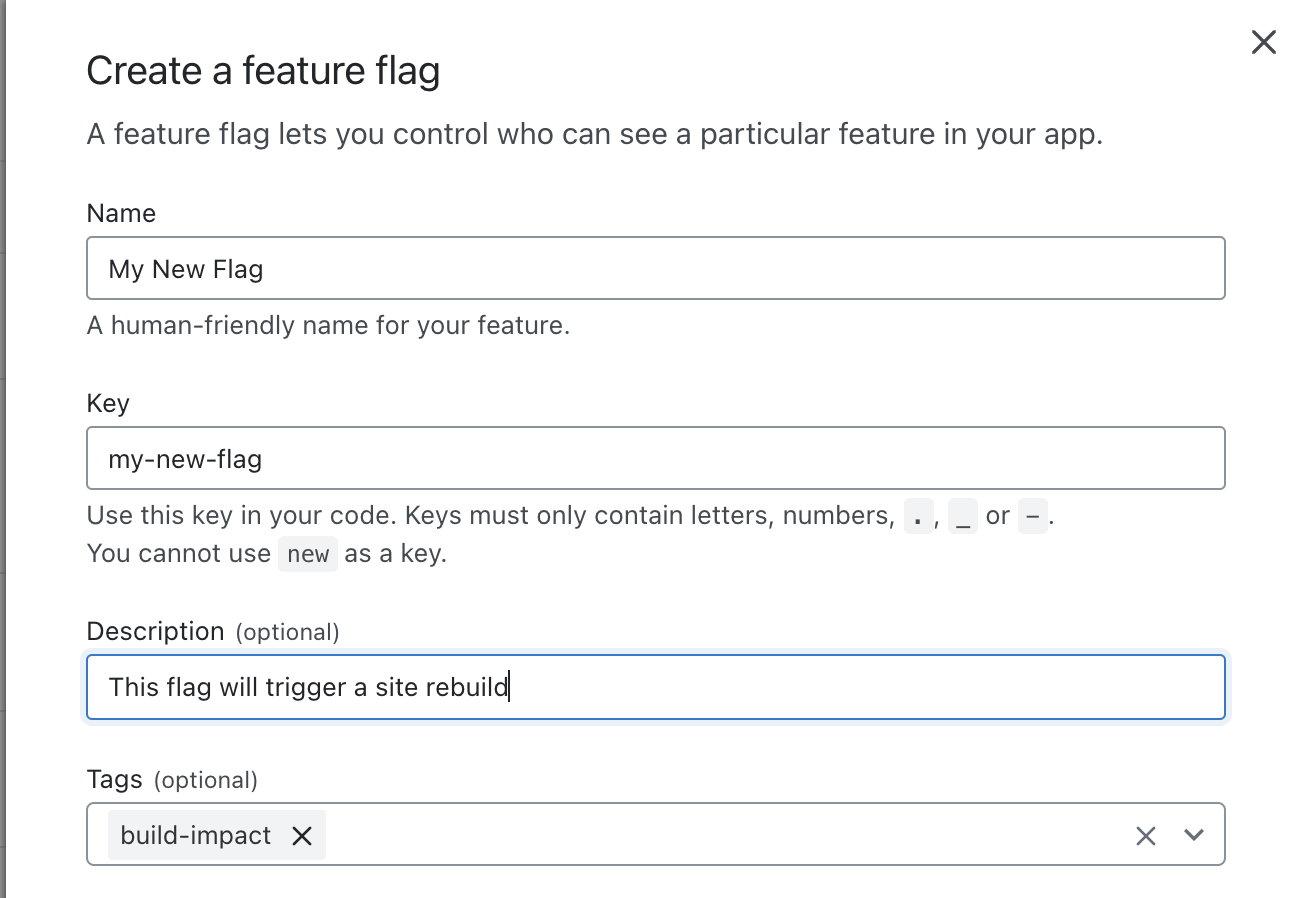
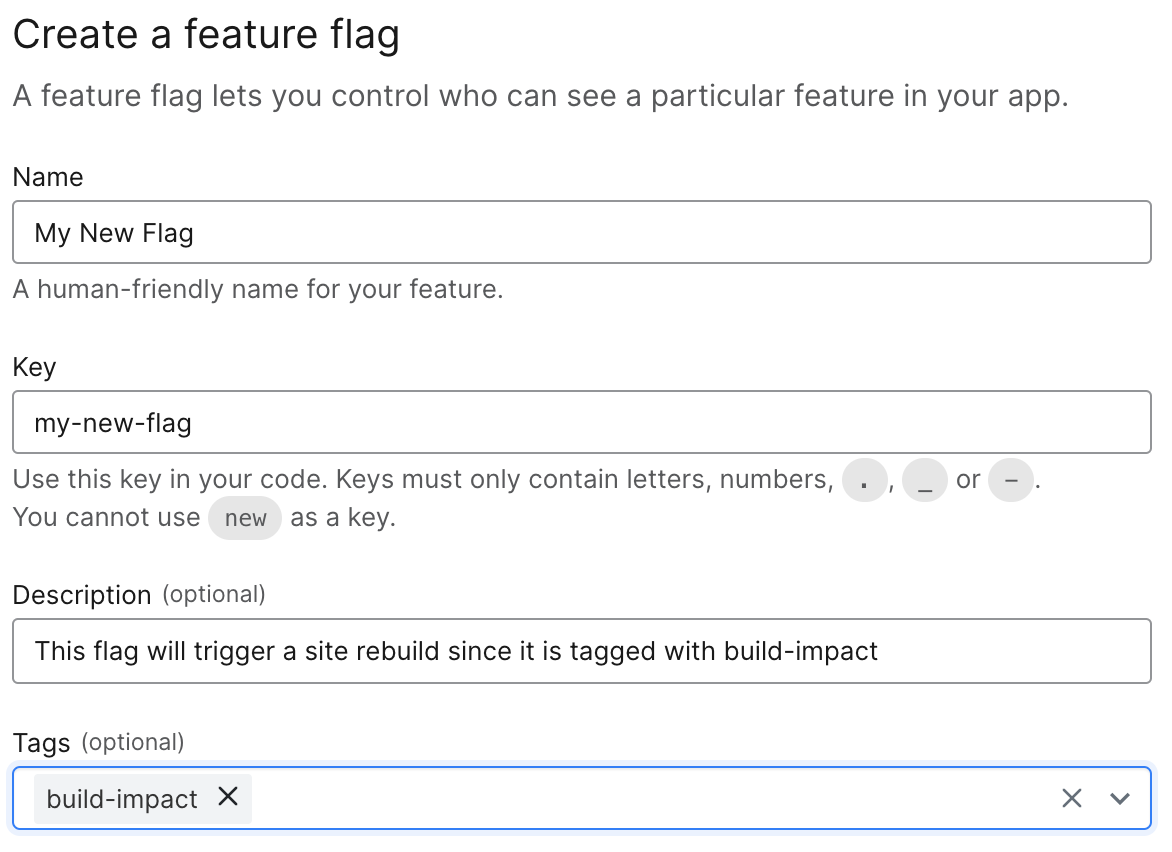
new article

Changed region(s): [[0.0, 0.0, 0.9829, 1.0], [0.9522, 0.0305, 0.9829, 0.061]]

diff --git a/LaunchDarkly Netlify/# Working with LaunchDarkly on Netlify.md b/LaunchDarkly Netlify/# Working with LaunchDarkly on Netlify.md
@@ -1,0 +1,126 @@
+# Working with LaunchDarkly on Netlify
+
+I have been a Netlify fan since the very beginning. I was developing Jekyll sites and struggling with deploying them via FTP. You remember FTP right? Anyway, it was so tedious, painful and error prone that folks developed command line tools to do it for you. Then Netlify came along and made the whole process easy and seamless...kind of like what LaunchDarkly did with feature flags!
+
+Speaking of feature flags, how does that work when the many of the assets that you are deploying are static? Do I need to flip a flag and then manually trigger a rebuild to have any changes reflect? The good news is, no, the whole process can be automated. In this post, we'll explore a solution that can enable you to directly connect any flags that impact the build with your build process in Netlify.
+
+## Why Use LaunchDarkly with Netlify?
+
+Feature management offers a ton of flexibility in terms of how you code, when and how you launch features or even how you empower your internal stakeholders. These capabilities are definitely useful in a Jamstack app as they are in any app, but, the key point for this post is, they are useful _even if the content is static_. Here's just a couple reasons you might want to use feature management within statically generated pages:
+
+* Enable/disable new functionality from the site, allowing you to launch features publicly only when they are fully ready and with the flip of a switch. You can even enable functionality in a branch deploy but disable it in the production deploy.
+* Give marketing the ability to launch new pages aligned with the timing of their campaigns without requiring developer intervention. For instance, they could flip all the content and assets related to a rebrand using a flag.
+
+Let's explore how to integrate Netlify's continuous deployment process with LaunchDarkly. There's a lot of material on integrating LaunchDarkly in client-side web applications, and nothing about deploying to Netlify needs to change for that. Rather, the question we'll answer is what to do when flag changes impact the static build and assets of a Jamstack site.
+
+## Connecting Flag Changes with Netlify Builds
+
+Let's lay out some requirements for connecting our LaunchDarkly flags with our Netlify builds:
+
+1. We want this to work automatically, without the need for developer intervention to deploy a change triggered by a flag.
+2. We want new builds to only be triggered by flags that have an actual impact on the build – we do not want to trigger a new build on every flag change for flags that don't require a rebuild (for example, a flag that impacts functionality on the frontend of the site) because build time is money.
+3. We want to be able to connect multiple environments in LaunchDarkly with multiple deploys on Netlify, this way a flag change in testing does not impact or trigger a build on the production deployment that runs the public facing web site.
+
+First, let's dig into how to set up LaunchDarkly to achieve this.
+
+### Setting Up LaunchDarkly
+
+LaunchDarkly provides projects and environments that allow you to organize and structure your flags to meet the needs of your development and production environments. For this example, we have a project that matches our production site being deployed to Netlify. Within that project we have two environments, Production and Testing, which are the defaults. These align with our deployment on Netlify, which has a staging deploy and a production deploy.
+
+LaunchDarkly also allows us to tag a flag when we create it. This can help you organize and find flags within large projects but we're going to leverage this feature to allow us to determine whether a flag should trigger a new build or not.
+
+When we create a flag, we can tag it with a tag that indicates that it should trigger a new build. We've chosen to name the tag `build-impact` but you can choose whatever name you prefer. It's best to choose a name that is easy to understand and consistent across the project.
+
+![Adding a tag to a flag on LaunchDarkly](netlify-adding-ld-flag.png)
+
+Ultimately, we will end up with a number of flags, some of which are tagged with `build-impact` and others that are not. The ones that are not may be used in Netlify functions, server-side rendering of specific pages or within client-side JavaScript. In each of these cases, a rebuild is not necessary, so no additional integration is required to utilize the flags.
+
+![Multiple flags in LaunchDarkly but only some have build impact](netlify-multiple-ld-flags.png)
+
+Before we can connect these to Netlify's build process, we'll need to do a little set up in Netlify first.
+
+### Setting Up Netlify
+
+Netlify offers the capability of automatically publishing not just our main branch but also any or all of our other branches to a "branch deploy". This deploy will not be accessible via our primary URL but instead has a special URL. This is extremely useful for deploying a staging/testing branch. (Note that this is different from Deploy Previews which publish a preview of pull requests.)
+
+To enable branch deploys, go to Site Settings > Build & Deploy > Branches within your Netlify dashboard. You can choose to publish only your production branch, all branches or only specific branches that you specify. In our example, we only have two branches, so we'll publish all of them.
+
+![Setting up branch deploys on Netlify](netlify-branch-deploys.png)
+
+#### Per Context Environment Variables in Netlify
+
+Next, we need to set up our two branches (i.e. production and staging) to use the appropriate SDK keys for the project. This enables the production deploy to use the Production environment flags in LaunchDarkly and the staging deploy to use Testing environment flags.
+
+Environment variables can be set in Netlify via the Netlify dashboard at Site Settings > Build & Deploy > Environment. However, this sets the variables on every branch whereas we want to use different variables per environment. To do that, we'll need to use a [build plugin](https://www.netlify.com/blog/2020/05/21/localize-your-environment-variables-by-context-with-build-plugins/) that will choose the appropriate variable for each environment (or "context" as Netlify refers to them).
+
+Within our Netlify site dashboard, go to Plugins and then click the button that reads "Go to plugins directory". In the search box, search for "Contextual Env". This is a build plugin created by Chris Ball that will replace the value of environment variables on a per context basis. Click the "Install" button and then choose the site to install it to.
+
+The way this plugin works is by replacing the value of an environment variable like `LAUNCHDARKLY_SDK_KEY`, which contains our Production environment SDK key, with the value of an environment variable prefixed with the name of the [deploy context](https://docs.netlify.com/site-deploys/overview/#deploy-contexts). In this case, our deploy context is `branch-deploy`, so the environment variable containing our Testing environment SDK key should be named `BRANCH_DEPLOY_LAUNCHDARKLY_SDK_KEY`.
+
+Now we can go to Environment variables via the Netlify dashboard at Site Settings > Build & Deploy > Environment and set 4 environment variables:
+
+1. `LAUNCHDARKLY_SDK_CLIENT` contains the client-side ID for our Production environment that will allow us to access LaunchDarkly via one of the [Client-side SDKs](https://docs.launchdarkly.com/sdk/client-side).
+2. `LAUNCHDARKLY_SDK_KEY` contains the server-side SDK key for our Production environment that will allow us to access LaunchDarkly via one of the [Server-side SDKs](https://docs.launchdarkly.com/sdk/server-side)
+3. `BRANCH_DEPLOY_LAUNCHDARKLY_SDK_CLIENT` contains the client-side ID for our Test environment. This will replace the value of `LAUNCHDARKLY_SDK_CLIENT` on any of our branch deploys, including our staging deploy.
+4. `BRANCH_DEPLOY_LAUNCHDARKLY_SDK_KEY` contains the server-side SDK key for our Test environment. This will replace the value of `LAUNCHDARKLY_SDK_KEY` on any of our branch deploys, including our staging deploy.
+
+![Netlify environment variables](netlify-environment-variables.png)
+
+Once these values are all in, click the "Save" button. When a branch is deployed, all references to either the `LAUNCHDARKLY_SDK_CLIENT` or `LAUNCHDARKLY_SDK_KEY` will use the appropriate Test environment variables.
+
+#### Deploy Hooks on Netlify
+
+Deploy hooks are HTTP endpoints that Netlify provides to allow us to programmatically trigger a build. This is extremely useful if you want to trigger a new build when content is published on a headless CMS, for example. For our example, we want to trigger a new build whenever a flag that we've determined impacts the build is changed.
+
+We need to set up two deploy hooks: one for our production deploy; and one for our staging deploy. Within your Netlify dashboard, go to Site Settings > Build & Deploy > Build Hooks and click the "Add build hook" button. Give the build hook a name (for example, "LaunchDarkly Production") and then choose the `main` branch for our production deploy. Repeat this process, choosing the `staging` branch.
+
+![Adding build hooks in Netlify](netlify-build-hooks.png)
+
+Once they are saved, Netlify will give us a build hook URL we can copy. We'll need those in a moment when we set up the web hooks in LaunchDarkly.
+
+## Using Webhooks on LaunchDarkly to Trigger a Build
+
+We're going to use LaunchDarkly's webhook integration to call the Netlify build hook and trigger a build. We'll connect one webhook from our Test environment to our staging deploy on Netlify and our Production environment to our production deploy. We'll also set up a security policy on the webhook to ensure that only those flags tagged with `build-impact` will trigger a rebuild on Netlify.
+
+Within your LaunchDarkly dashboard, go to Integrations, search for "webhooks" and then click the "+ Integration button". Name the webhook to make it easier to identify (for example, "Netlify Production") and then place the build hook URL for our production deploy from Netlify in the URL.
+
+### Creating Advanced Security Policies
+
+Next, we need to add a security policy to this webhook so that it only triggers rebuilds when flags from the proper environment that are tagged with `build-impact` are changed. All other changes should not trigger a rebuild. In the "Policy" section, click on the "Advanced editor" link and then paste the below policy into the editor. This policy says that for our project (this is `proj/netlify-test` in the below code but be sure to replace `netlify-test`with your project key) on the production environment (`env/production`) call this webhook for all flags tagged with `build-impact` (`flag/*;build-impact`).
+
+```json
+[
+  {
+    "resources": [
+      "proj/netlify-test:env/production:flag/*;build-impact"
+    ],
+    "actions": [
+      "*"
+    ],
+    "effect": "allow"
+  }
+]
+```
+
+![Create a webhook in LaunchDarkly for the Production environment](netlify-ld-create-webhook.png)
+
+Repeat the same process, creating a webhook for the Test environment that calls the URL for the staging deploy on Netlify. The only difference besides the URL for the webhook will be changing `env/production` in the security policy to `env/test`.
+
+## Considerations
+
+At this point, our Netlify and LaunchDarkly are connected but there is a caveat that you need to consider. Flags that have build impact are unable to take advantage of percentage rollouts, experiments or other user-specific targeting. This is because the assets in these cases are prerendered (also known as statically rendered) and deployed as part of the build. Regardless of any rollout or targeting, all users are served the same statically generated version of the page. This is just the nature of prerendered content.
+
+Nonetheless, there are some potential solutions that can overcome this limitation involving the use of [edge computing](https://www.cloudflare.com/learning/serverless/glossary/what-is-edge-computing/). This would entail running a function at on the edge (meaning a CDN) that evaluates flags and alters the content or redirects users depending on the flag value for that user. For example, CloudFlare Workers, AWS Lambda@Edge or even Netlify's own Edge Handlers (which are currently only available in private beta) could allow a solution that leveraged prerendered page content while also allowing rollouts and experiments.
+
+## We're Ready to Go!
+
+That's all that we need to do to get everything hooked up. At this point, we should be able to do the following in LaunchDarkly and see the appropriate actions on Netlify:
+
+* Change a flag that is tagged with `build-impact` on the Test environment in LaunchDarkly and see the staging deploy triggered within Netlify.
+* Change any other environment setting or flag on the Test environment in LaunchDarkly and no Netlify build should be triggered.
+* Change a flag that is tagged with `build-impact` on the Production environment in LaunchDarkly and see the production deploy triggered within Netlify.
+* Change any other environment setting or flag on the Production environment in LaunchDarkly and no Netlify build should be triggered.
+
+Since we've also aligned the correct environment variables for each deploy context in Netlify, we'll also see that when the build runs for your staging deploy, our Test environment variables called. While the production build will call the appropriate Production environment variables.
+
+If you'd like to explore how this all fits within a real Jamstack application deployed to Netlify, check out our guide on [Using LaunchDarkly with Next.js](https://docs.launchdarkly.com/guides/platform-specific/nextjs).

diff --git a/LaunchDarkly Nextjs/Using LaunchDarkly with Next.js.md b/LaunchDarkly Nextjs/Using LaunchDarkly with Next.js.md
@@ -2,7 +2,7 @@
 
 Next.js is a React-based framework for full-stack JavaScript development. One of the most powerful aspects of Next.js is that it offers tools for rendering content at multiple junctures: at build time; on the server; or on the client. It even offers an option for deferred rendering that builds pages only when they are first requested.
 
-While these options add a lot of power, they can also create some confusion when trying to integrate tools like LaunchDarkly. Which library do I need? Where do I import and configure it? How do I use it once it is set up? In this tutorial, we'll answer these questions for all the various types of integrations Next.js offers.
+While these options add a lot of power, they can also create some confusion when trying to integrate LaunchDarkly. Which library do I need? Where do I import and configure it? How do I use it once it is set up? In this tutorial, we'll answer these questions for all the various types of integrations Next.js offers.
 
 ## Rendering Options in Next.js
 
@@ -10,14 +10,16 @@ Once upon a time, rendering occurred in just one place: the server. I'd request
 
 Things become especially complicated when you are dealing with a "full stack" framework like Next.js (sometimes referred to as an [isomorphic javascript framework](https://en.wikipedia.org/wiki/Isomorphic_JavaScript)) that isn't just about rendering content using JavaScript on the client (also known as the browser). It also handles rendering on the backend using JavaScript within Node.js.
 
-There are four different points at which you can render content in a Next.js application. Keep in mind that an application could have any mix of any or all of these and, in some cases, even a single page may include multiple rendering points for different parts of the page.
+There are four different strategies for rendering content in a Next.js application. Keep in mind that an application could have any mix of any or all of these and, in some cases, even a single page may include multiple rendering strategies for different parts of the page.
 
 * **Pre-rendering** – This content is rendered at build time before the application is deployed. Typically this will happen as part of a CI/CD build process. For example, new code checked into your git repository will automatically trigger a build in Netlify or Vercel, two popular deployment options for Next.js sites. A new build may also be triggered via a [build hook](https://docs.netlify.com/configure-builds/build-hooks/) (also known as deploy hooks). This is common, for example, when you're using an external headless content management system so that changes to content will get automatically re-rendered in the build. You'll frequently see pre-rendering also referred to as static rendering or static site generation (SSG).
 * **Server-side rendering** – This is the traditional style of rendering a page where it the content is generated on the server (Node.js in this case) for every single request and then sent to the browser. You'll frequently hear server-side rendering referred to as just SSR.
 * **Client-side rendering** – Some content cannot be fully pre-rendered – for instance, user-specific data on a page that is pre-rendered. In these cases, you'd need to modify the rendered output in the browser using JavaScript. Similarly, you may not want to rerender the page server side for every interaction and in these cases you'd also update the page using client-side JavaScript.
-* **Deferred rendering** – This is functionally equivalent to pre-rendering except that the requested page isn't rendered during the initial build but only when the first user requests it. Imagine an ecommerce site with thousands of product pages. Pre-rendering all of these could cause excessively long builds – plus, many of those pages may get minimal traffic. Instead, the page rendering for these can be deferred until they are first requested. While the initial visitor may see a slight delay in loading the page, subsequent visitors will receive the page from the build cache. There are two forms of deferred rendering: Incremental Static Regeneration (ISR) and Distributed Persistent Rendering (DPR). While the terminology can be confusing, the key difference is that ISR can include a timeout, meaning that the generated page will go stale and rerender after a specified period. Whereas with DPR, the rendered page becomes part of the build and the only way to rerender it is with a new build.
+* **Deferred rendering** – This is functionally equivalent to pre-rendering except that the requested page isn't rendered during the initial build but only when the first user requests it. Imagine an ecommerce site with thousands of product pages. Pre-rendering all of these could cause excessively long builds – plus, many of those pages may get minimal traffic. Instead, the page rendering for these can be deferred until they are first requested. While the initial visitor may see a slight delay in loading the page, subsequent visitors will receive the page from the build cache.
 
 As you might imagine, each of these different types of rendering has different considerations when working with LaunchDarkly via the SDKs.
+
+> There are two forms of deferred rendering: Incremental Static Regeneration (ISR) and Distributed Persistent Rendering (DPR). While the terminology can be confusing, the key difference is that ISR can include a timeout, meaning that the generated page will go stale and rerender after a specified period. Whereas with DPR, the rendered page becomes part of the build and the only way to rerender it is with a new build.
 
 ## Which SDK Do I Use?
 
@@ -235,7 +237,7 @@ export async function getServerSideProps() {
 
 Client-side rendering is the only scenario covered here that we need the LaunchDarkly React SDK. This means that it will work quite differently than the prior examples.
 
-The first thing is that the client SDK uses a different, more restricted, key than the server SDKs. We can get this key the same way you got the server SDK key. Go to [Account Settings > Projects](https://app.launchdarkly.com/settings/projects) within the dashboard. Grab the key and add a `LAUNCHDARKLY_SDK_CLIENT` value to `.env.local` (note that we'll also need to ensure this key exists on our deployment provider as well).
+The first thing is that the client SDK uses a different, more restricted, key than the server SDKs (for details on why, check [our documentation](https://docs.launchdarkly.com/sdk/concepts/client-side-server-side#keys)). We can get this key the same way you got the server SDK key. Go to [Account Settings > Projects](https://app.launchdarkly.com/settings/projects) within the dashboard. Grab the key and add a `LAUNCHDARKLY_SDK_CLIENT` value to `.env.local` (note that we'll also need to ensure this key exists on our deployment provider as well).
 
 Environment variables are not automatically made available client-side within Next.js. In order to do that, we need to alter the `next.config.js` file in our project, adding the following code within the `module.exports` block. This basically says to make the `LAUNCHDARKLY_SDK_CLIENT` variable available on the client using the same variable name.
 
